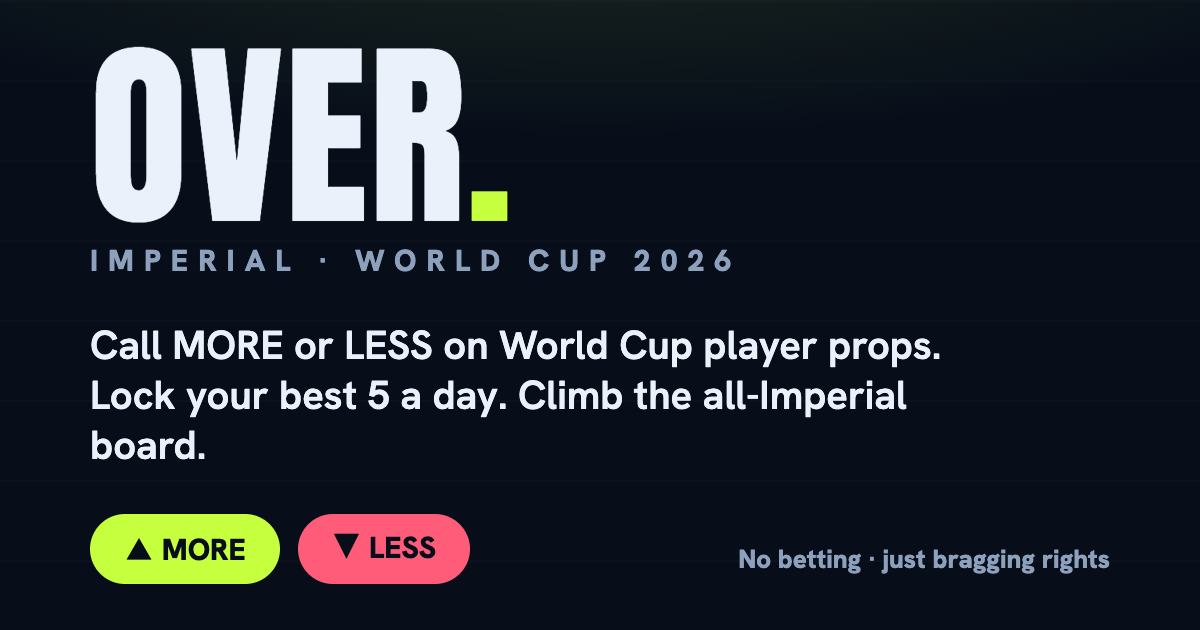
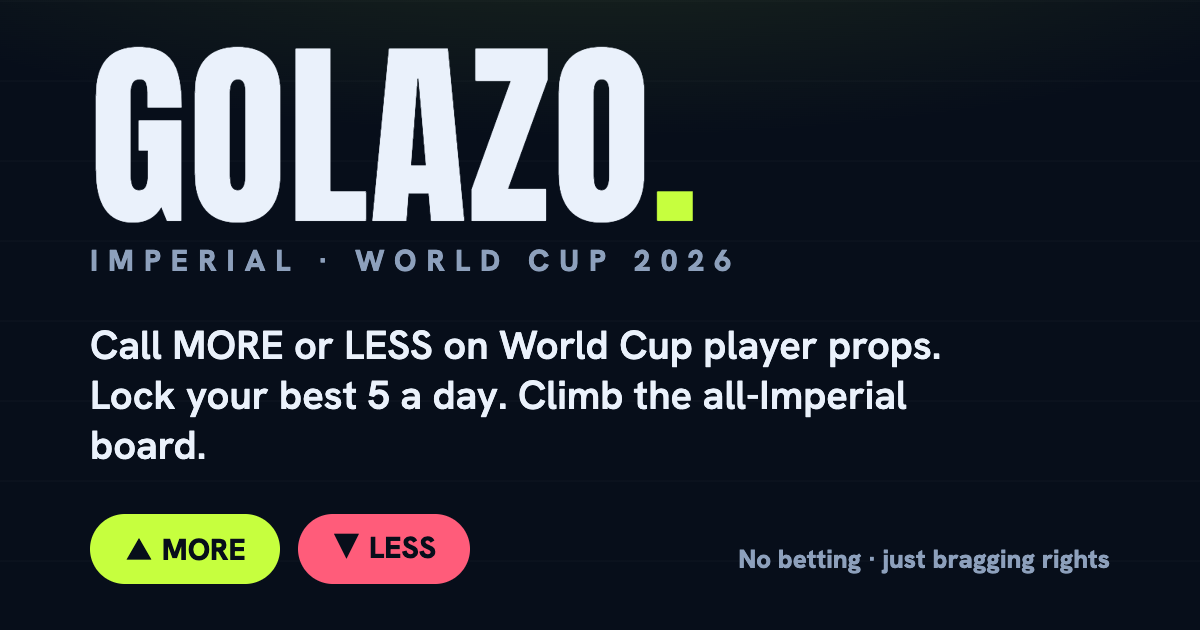
feat(brand): rename OVER. -> Golazo
- Wordmark + titles + share text + OG card + manifest + README rebranded to
  GOLAZO. (lime-dot wordmark preserved).
- OG/social tags now point at the live app (golazo-wc.web.app).
- Hosting deploys to both golazo-wc.web.app (canonical) and over-wc26.web.app
  via hosting targets. Repo renamed to golazo-wc26 (Pages base auto-derives).

The Firebase project id (over-wc26) stays — it's internal and never user-visible.
Verified: mock smoke 20/20, build clean, OG card regenerated.

Changed region(s): [[0.2775, 0.0603, 0.5858, 0.3619], [0.0925, 0.0603, 0.2467, 0.3619], [0.2775, 0.2714, 0.3083, 0.3317]]

diff --git a/index.html b/index.html
@@ -9,26 +9,26 @@
     <link rel="manifest" href="/manifest.webmanifest" />
     <meta name="apple-mobile-web-app-capable" content="yes" />
     <meta name="apple-mobile-web-app-status-bar-style" content="black-translucent" />
-    <meta name="apple-mobile-web-app-title" content="OVER." />
+    <meta name="apple-mobile-web-app-title" content="Golazo" />
     <meta name="description" content="PrizePicks-style World Cup 2026 player props for Imperial College. No betting — just points and bragging rights." />
 
-    <!-- Social link previews (WhatsApp / iMessage / Slack / Twitter). NOTE: the
-         absolute URLs below point at the GitHub Pages demo — update the domain
-         here if you launch on Firebase Hosting or a custom URL. -->
+    <!-- Social link previews (WhatsApp / iMessage / Slack / Twitter). Absolute
+         URLs point at the live app; update the domain here if you move to a
+         custom domain. -->
     <meta property="og:type" content="website" />
-    <meta property="og:site_name" content="OVER." />
-    <meta property="og:title" content="OVER. — Imperial World Cup 2026 Props" />
+    <meta property="og:site_name" content="Golazo" />
+    <meta property="og:title" content="Golazo — Imperial World Cup 2026 Props" />
     <meta property="og:description" content="Call MORE or LESS on World Cup player props. Lock your best 5 a day. Climb the all-Imperial board. No betting — just bragging rights." />
-    <meta property="og:url" content="https://mustafa-os.github.io/over-wc26/" />
-    <meta property="og:image" content="https://mustafa-os.github.io/over-wc26/og.png" />
+    <meta property="og:url" content="https://golazo-wc.web.app/" />
+    <meta property="og:image" content="https://golazo-wc.web.app/og.png" />
     <meta property="og:image:width" content="1200" />
     <meta property="og:image:height" content="630" />
     <meta name="twitter:card" content="summary_large_image" />
-    <meta name="twitter:title" content="OVER. — Imperial World Cup 2026 Props" />
+    <meta name="twitter:title" content="Golazo — Imperial World Cup 2026 Props" />
     <meta name="twitter:description" content="Call MORE or LESS on World Cup player props. Lock 5 a day. Climb the all-Imperial board." />
-    <meta name="twitter:image" content="https://mustafa-os.github.io/over-wc26/og.png" />
+    <meta name="twitter:image" content="https://golazo-wc.web.app/og.png" />
 
-    <title>OVER. — Imperial World Cup Props</title>
+    <title>Golazo — Imperial World Cup Props</title>
     <link rel="preconnect" href="https://fonts.googleapis.com" />
     <link rel="preconnect" href="https://fonts.gstatic.com" crossorigin />
     <link

diff --git a/src/App.jsx b/src/App.jsx
@@ -47,7 +47,7 @@ function Splash() {
     <div className="flex min-h-full items-center justify-center">
       <div className="animate-pulse text-center">
         <div className="font-display text-5xl tracking-wide">
-          OVER<span className="text-more">.</span>
+          GOLAZO<span className="text-more">.</span>
         </div>
         <div className="mt-2 text-[11px] font-semibold uppercase tracking-[0.3em] text-mist">
           Loading
@@ -235,7 +235,7 @@ function Header({ picks, max, onOpenSlip }) {
     <header className="sticky top-0 z-20 flex items-center justify-between border-b border-line bg-ink/85 px-4 py-3 backdrop-blur">
       <div className="leading-none">
         <div className="font-display text-2xl tracking-wide">
-          OVER<span className="text-more">.</span>
+          GOLAZO<span className="text-more">.</span>
         </div>
         <div className="-mt-0.5 text-[10px] font-semibold uppercase tracking-[0.25em] text-mist">
           Imperial · WC26

diff --git a/src/components/PickSlip.jsx b/src/components/PickSlip.jsx
@@ -27,10 +27,10 @@ export default function PickSlip({
     const lines = picks.map(
       (p) => `${p.side === 'MORE' ? '▲' : '▼'} ${p.playerName} ${p.side} ${p.label} ${p.line}${captainId === p.id ? ' (★C)' : ''}`
     );
-    const tag = isPower ? '⚡ POWER PLAY' : 'My OVER. slip';
+    const tag = isPower ? '⚡ POWER PLAY' : 'My GOLAZO. slip';
     const text = `${tag} 🔥\n${lines.join('\n')}\nMax ${potential} pts · play: ${url}`;
     try {
-      if (navigator.share) await navigator.share({ title: 'My OVER. slip', text });
+      if (navigator.share) await navigator.share({ title: 'My GOLAZO. slip', text });
       else {
         await navigator.clipboard.writeText(text);
         setShared(true);

diff --git a/src/pages/Profile.jsx b/src/pages/Profile.jsx
@@ -7,10 +7,10 @@ export default function Profile({ rows }) {
 
   async function shareApp() {
     const url = window.location.origin + window.location.pathname;
-    const text = "I'm playing OVER. — Imperial's World Cup 2026 props game. No betting, just bragging rights. Get on:";
+    const text = "I'm playing GOLAZO. — Imperial's World Cup 2026 props game. No betting, just bragging rights. Get on:";
     try {
       if (navigator.share) {
-        await navigator.share({ title: 'OVER.', text, url });
+        await navigator.share({ title: 'GOLAZO.', text, url });
       } else {
         await navigator.clipboard.writeText(`${text} ${url}`);
         setCopied(true);

diff --git a/src/pages/AuthScreen.jsx b/src/pages/AuthScreen.jsx
@@ -44,7 +44,7 @@ export default function AuthScreen() {
       {/* brand */}
       <div className="text-center">
         <div className="font-display text-6xl tracking-wide">
-          OVER<span className="text-more">.</span>
+          GOLAZO<span className="text-more">.</span>
         </div>
         <div className="mt-1 text-[11px] font-semibold uppercase tracking-[0.3em] text-mist">
           Imperial · World Cup 2026

diff --git a/README.md b/README.md
@@ -1,15 +1,15 @@
-# OVER. — Imperial World Cup 2026 Props
+# Golazo — Imperial World Cup 2026 Props
 
 A PrizePicks-style player-props game for the 2026 World Cup, built to spread across
 Imperial College. Browse a match, tap **MORE** or **LESS** on app-set lines, lock
-your best **5 picks** a day, climb the all-Imperial leaderboard or a private group.
-**No betting** — just points and bragging rights.
+your best **5 picks** a day (or go all-in with a **Power Play** parlay / a **2× Captain**),
+climb the all-Imperial leaderboard or a private group. **No betting** — just points
+and bragging rights.
 
-> Kickoff is **11 June 2026**. The UI, engines, auth, live Firestore wiring, slips,
-> leaderboards and groups are all built and tested. What's left is *yours*: create a
-> Firebase project and an API-Football account, then flip the switches in §4.
+> Kickoff is **11 June 2026**. The app is **deployed live** on Firebase; the only
+> thing left is upgrading API-Football to Pro so season-2026 data unlocks (see §4).
 
-**▶ Live demo (mock data):** https://mustafa-os.github.io/over-wc26/
+**▶ Live app:** https://golazo-wc.web.app  ·  **Mock demo:** https://mustafa-os.github.io/golazo-wc26/
 
 ---
 